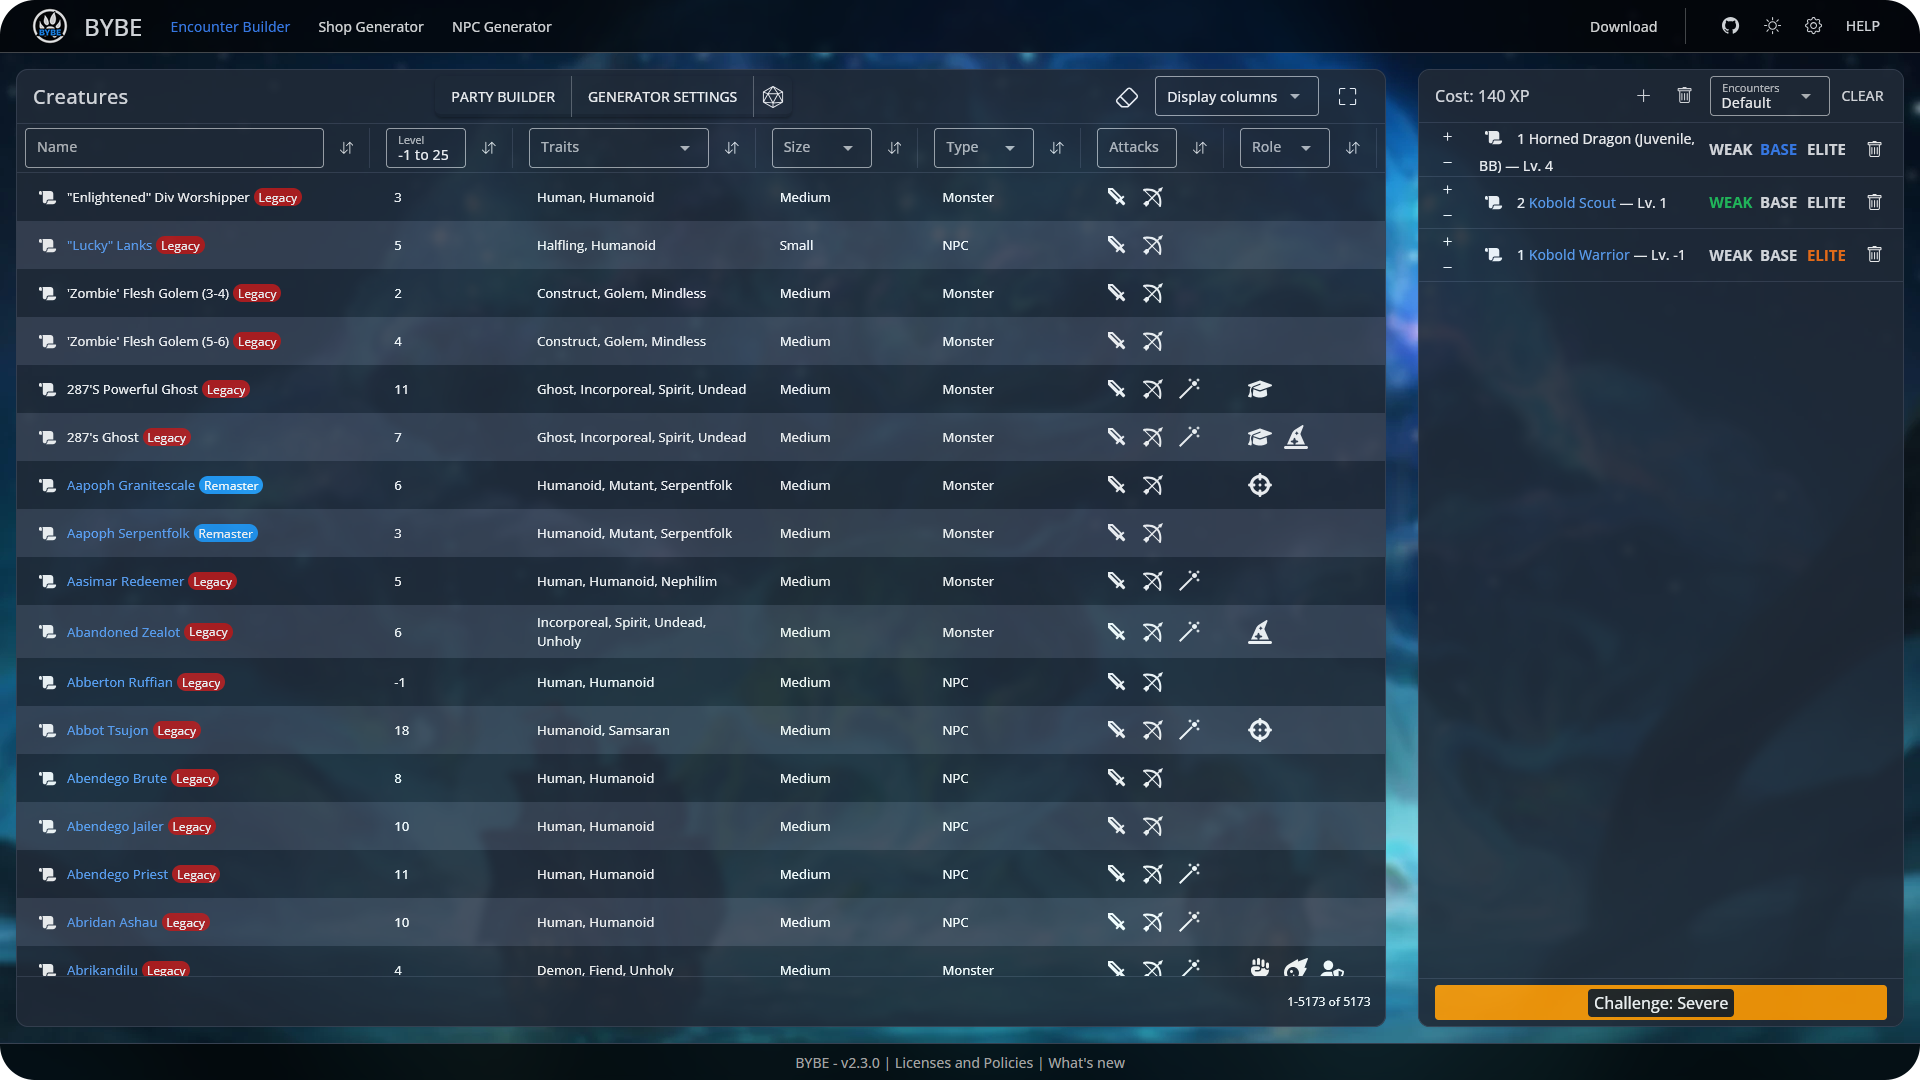
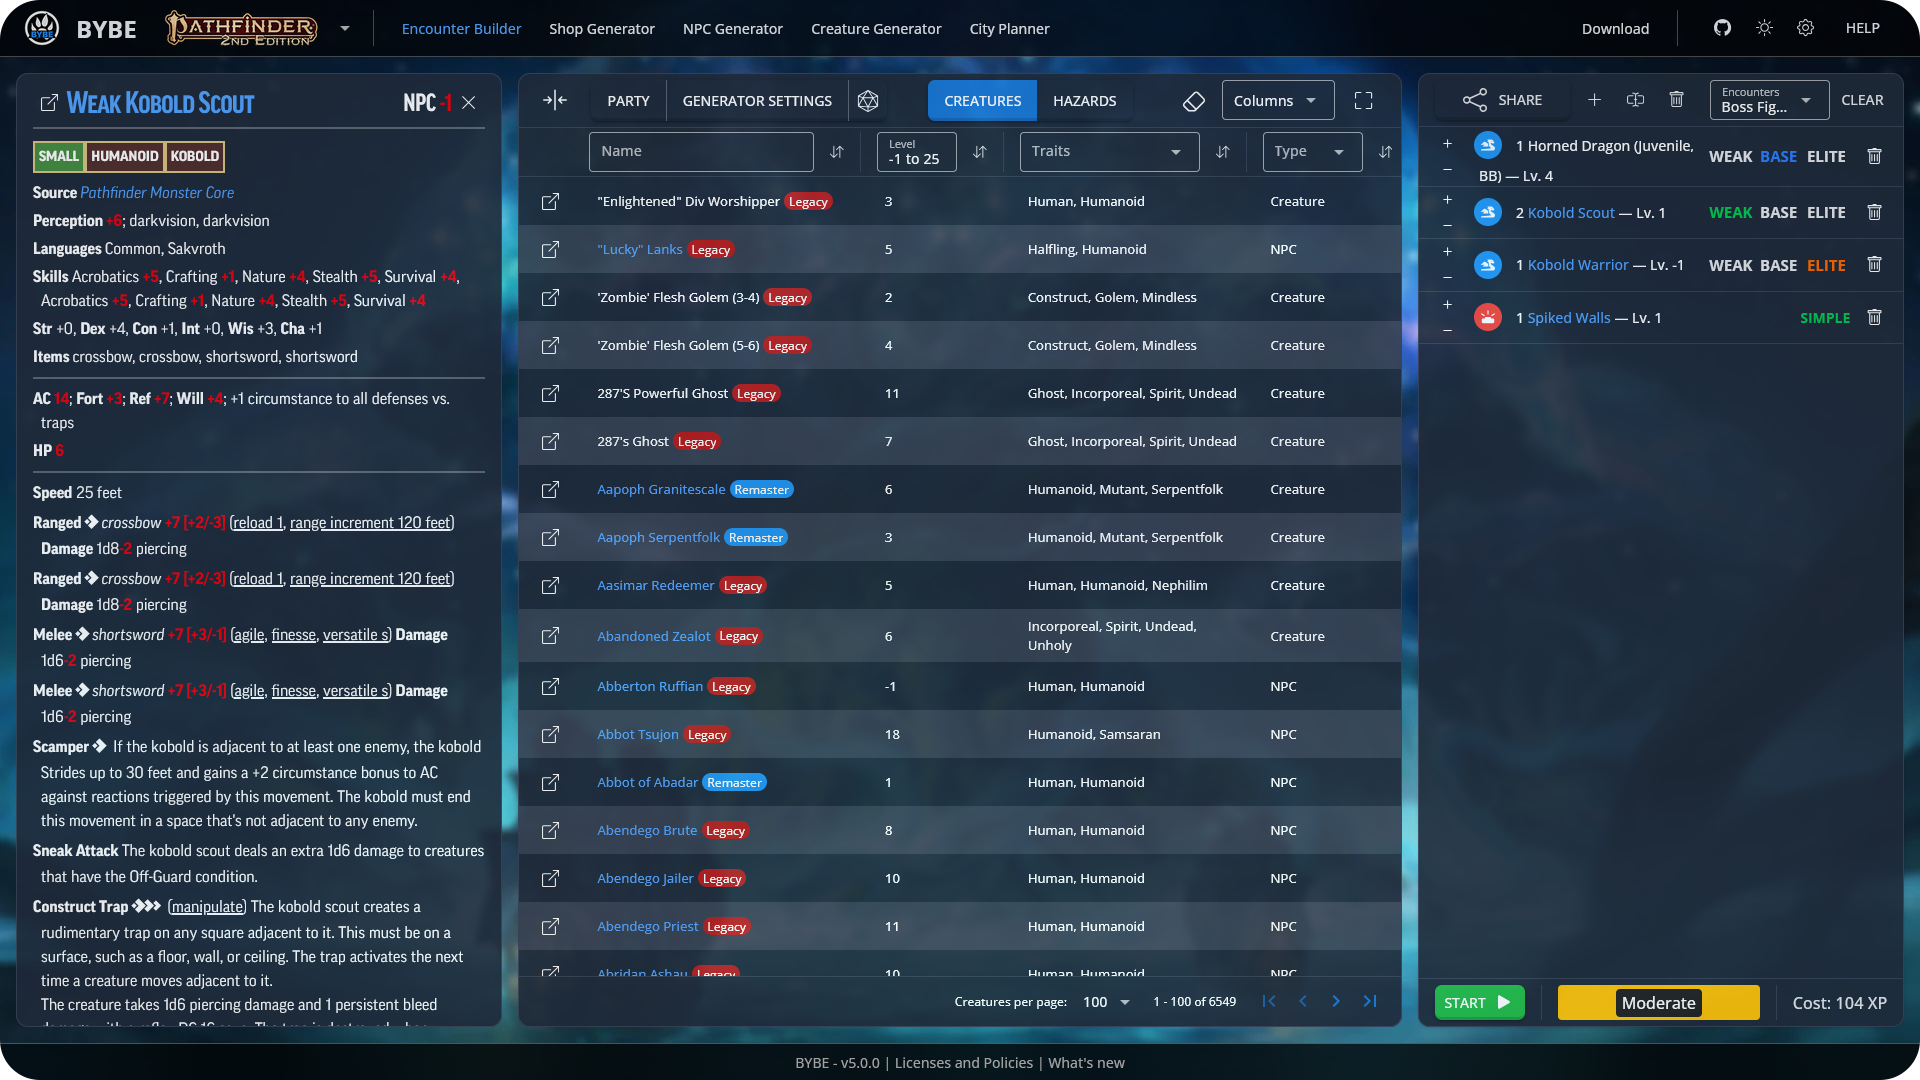
📝 Update repo images and README

diff --git a/README.md b/README.md
@@ -10,7 +10,7 @@
   </a>
 </p>
 
-> Beyond Your Bestiary Explorer (BYBE) provides tools to help Pathfinder 2e and Starfinder 2e Game Masters. Built on top of the [BYBE - Backend](https://github.com/RakuJa/BYBE/)
+> Beyond Your Bestiary Explorer (BYBE) provides tools to help Pathfinder 2e and Starfinder 2e Game Masters. Built on top of the [BYBE - Backend](https://github.com/RakuJa/BYBE-backend/)
 
 <!-- TABLE OF CONTENTS -->
 <details>
@@ -47,6 +47,7 @@ BYBE is also available offline! We currently support Windows, MacOS and Linux (A
   - Browse and filter a list of all creatures and hazards
   - Balance encounters based on your party size and level
   - Generate random encounters based on your requirements
+  - Run your encounters with the tracker
 - Shop Generator
   - Browse and filter a list of all items
   - Generate random shops with filters and templates
@@ -60,7 +61,17 @@ BYBE is also available offline! We currently support Windows, MacOS and Linux (A
 ![Screenshot of the Encounter Builder page of BYBE](https://raw.githubusercontent.com/TheAsel/BYBE-frontend/HEAD/.github/encounter_builder.png)
 
 <p align="center">
-  Encounter Builder 
+  Encounter Builder
+</p>
+
+---
+
+<br/>
+
+![Screenshot of the Tracker page of BYBE](https://raw.githubusercontent.com/TheAsel/BYBE-frontend/HEAD/.github/encounter_tracker.png)
+
+<p align="center">
+    Tracker
 </p>
 
 ---
@@ -93,6 +104,7 @@ Built using:
 - [Vue.js](https://vuejs.org/)
 - [Quasar](https://quasar.dev/)
 - [Tailwind CSS](https://tailwindcss.com/)
+- [Shepherd.js](https://www.shepherdjs.dev/)
 
 ### Local
 
